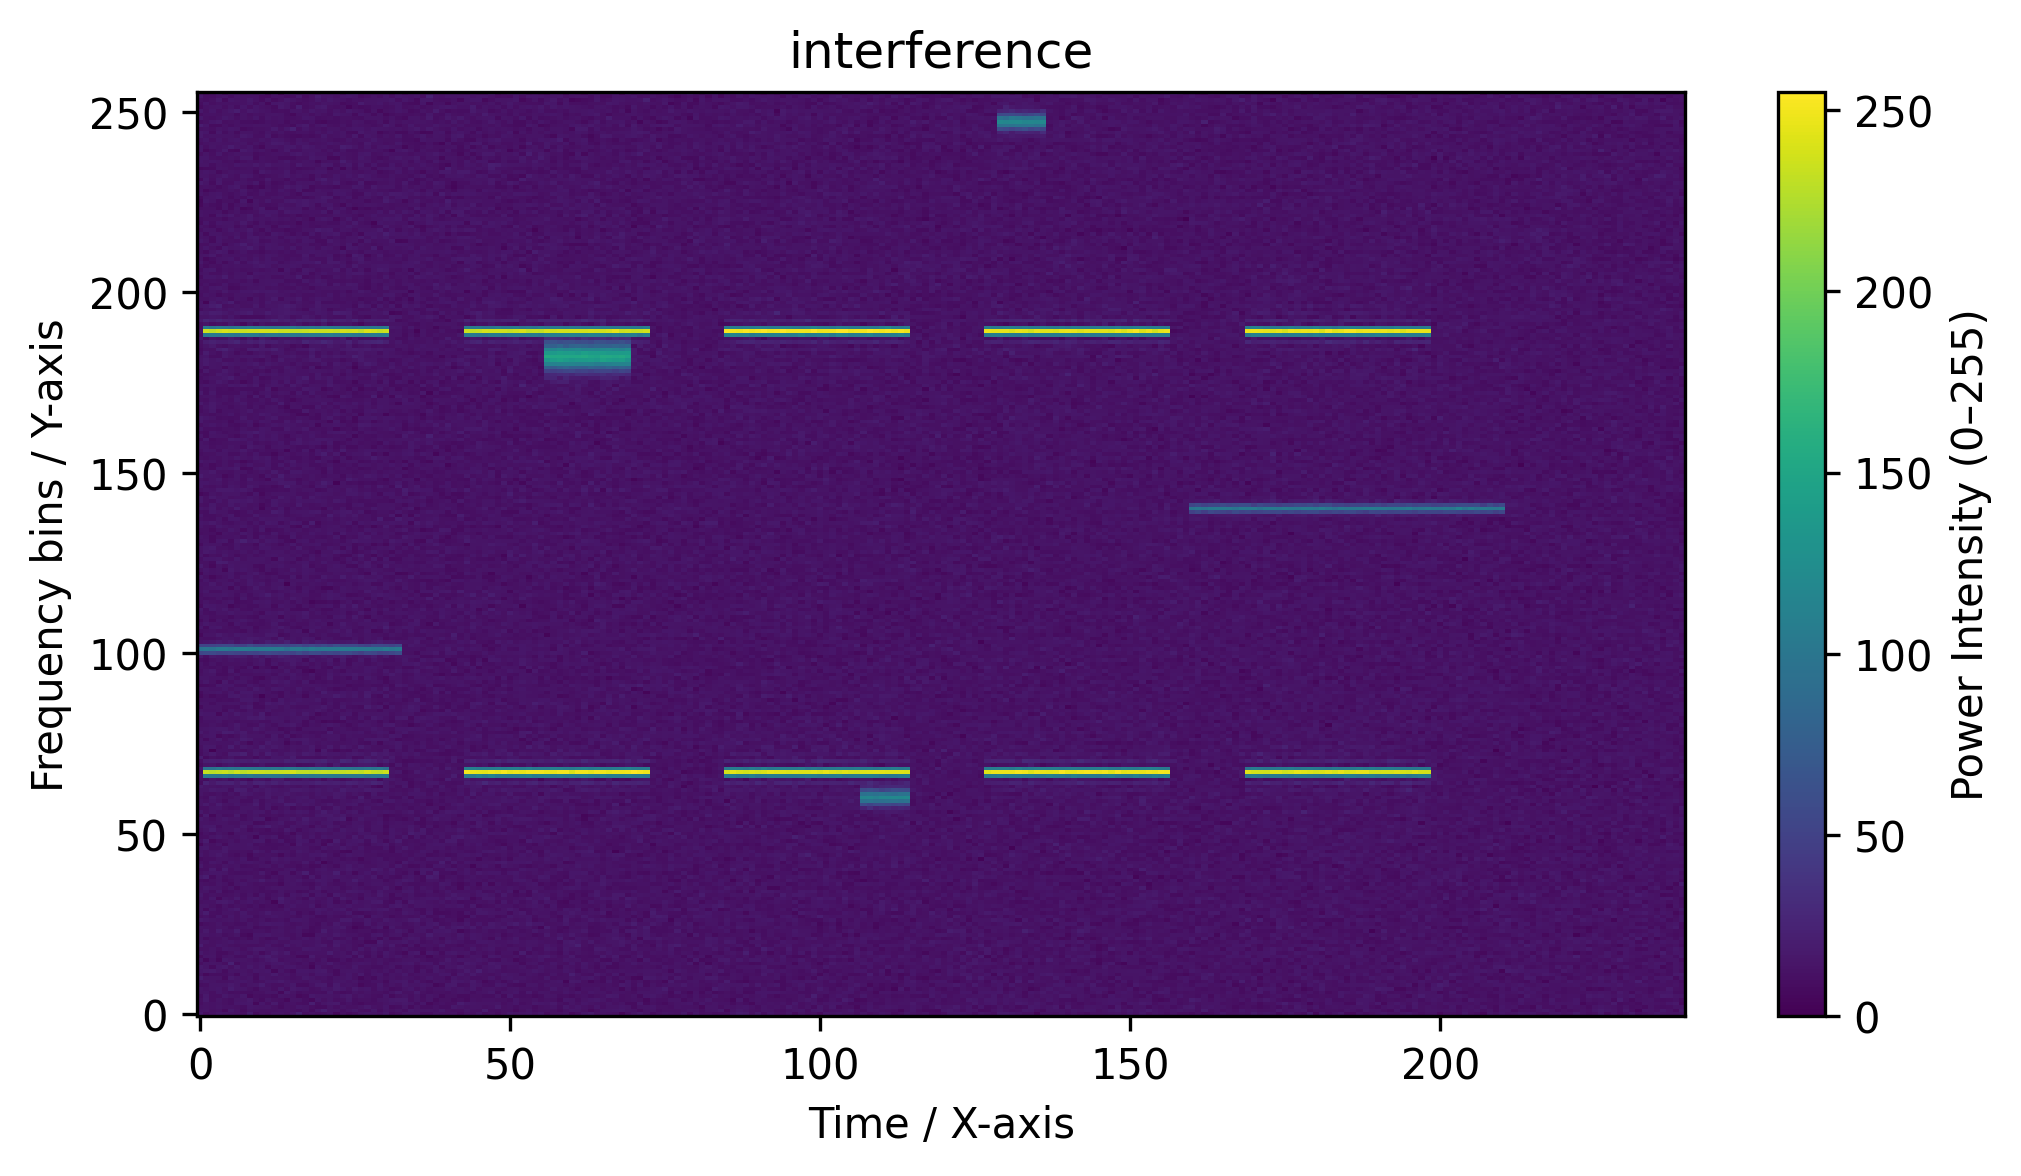
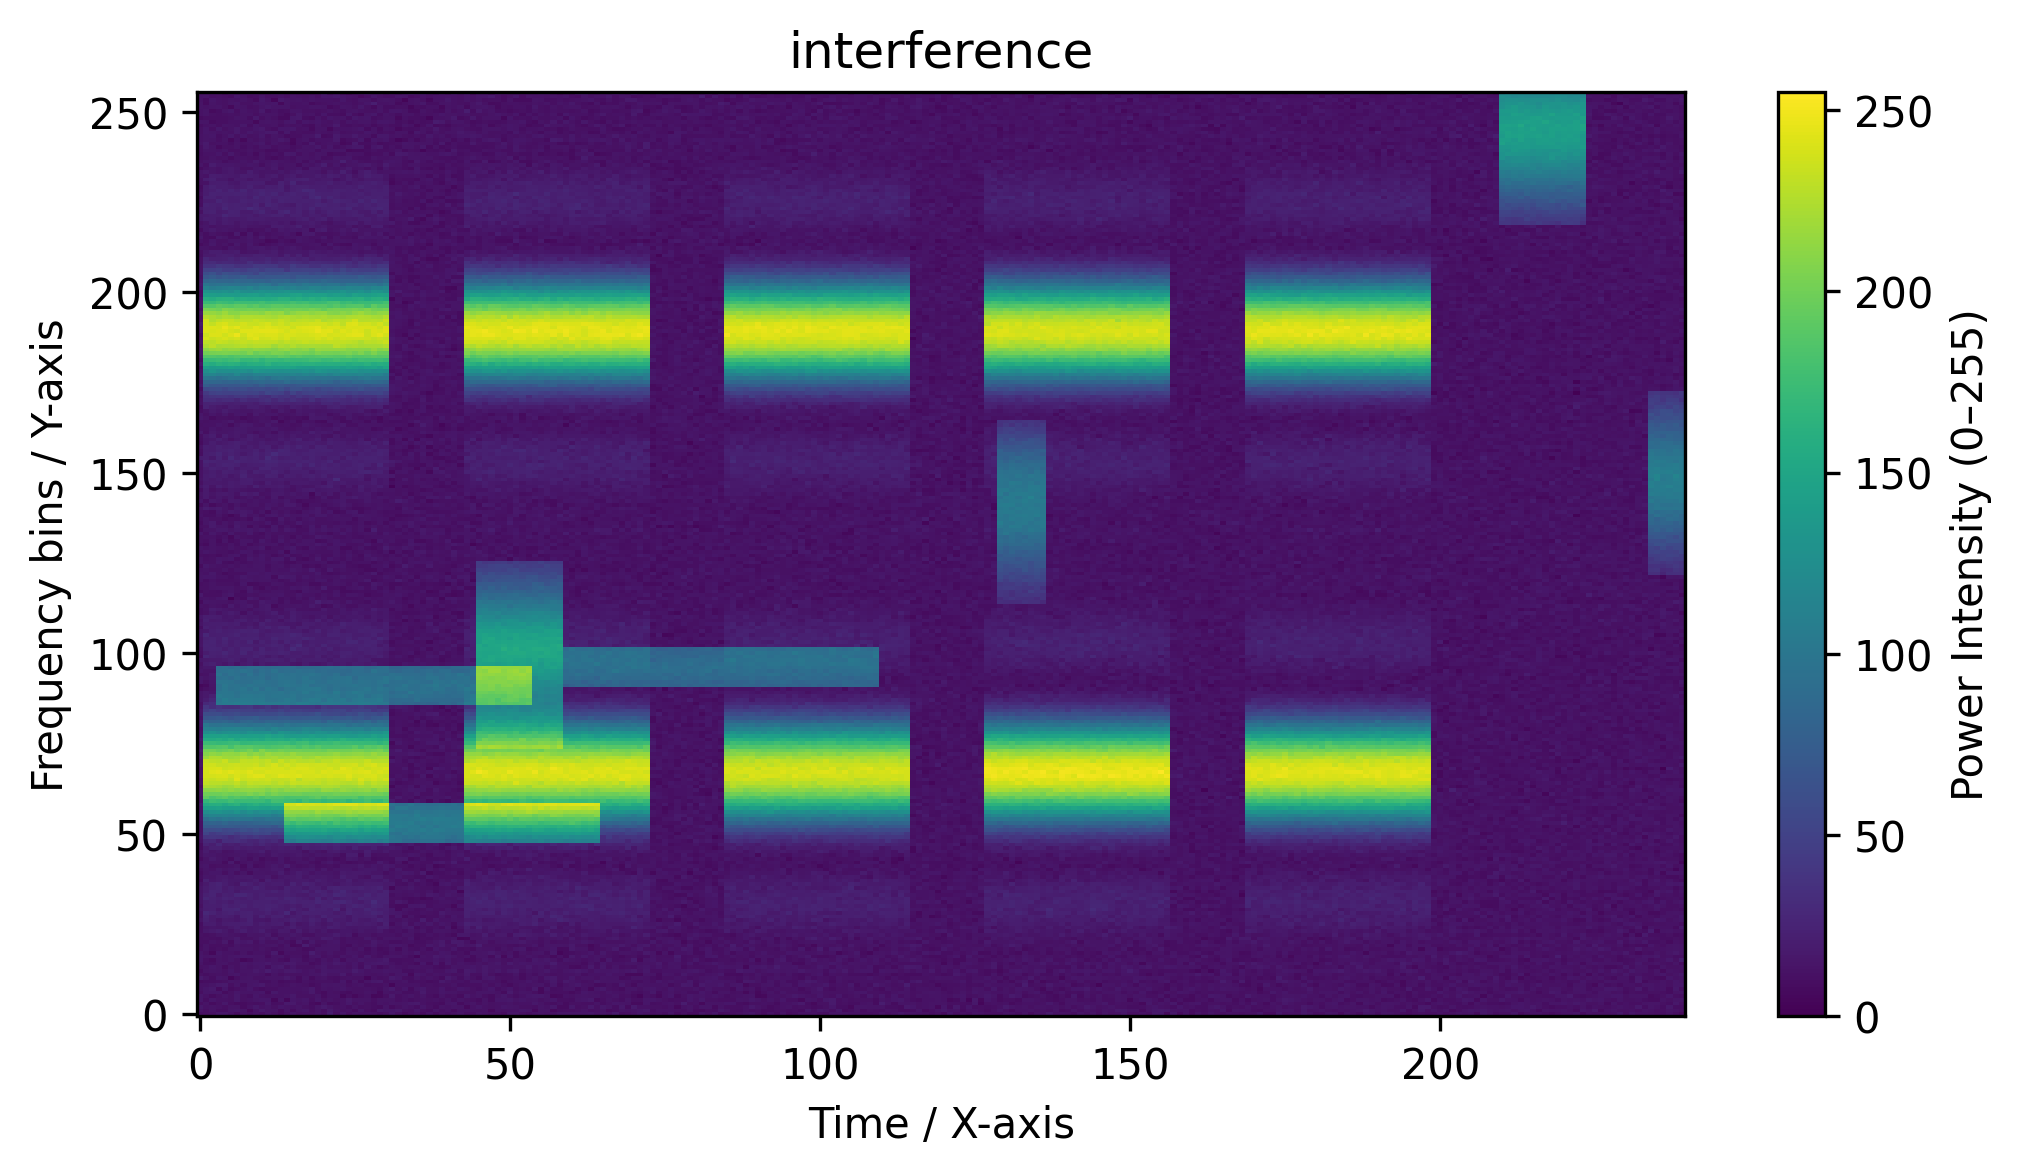
some values fixed

diff --git a/all_interferences.py b/all_interferences.py
@@ -26,7 +26,7 @@ def add_wifi_clients(noise_grid, grid, x, y, n_clients=1, width=30
         raise ValueError("Too many Wi-Fi clients for given Y range")
 
     bw_per_client = max(3, int(usable_height /n_clients))
-    print(f"client width: {bw_per_client}")
+    #print(f"client width: {bw_per_client}")
 
     # --- Generate clients ---
     for i in range(n_clients):
@@ -35,7 +35,7 @@ def add_wifi_clients(noise_grid, grid, x, y, n_clients=1, width=30
         fc = int((y_start + y_end) / 2)  # center frequency index
         #print(y_start, fc, y_end)
         yy = np.arange(ny)
-        sinc_profile = np.sinc((yy - fc) /10)**2
+        sinc_profile = np.sinc((yy - fc) /25)**2
         sinc_profile /= sinc_profile.max()
 
         # --- Horizontal duplication across x-axis ---
@@ -45,7 +45,7 @@ def add_wifi_clients(noise_grid, grid, x, y, n_clients=1, width=30
             amp = np.random.normal(amp_mean, np.sqrt(amp_var))
             for xi in range(x_start, x_end):
                 grid[y_start:y_end, xi] += amp * sinc_profile[y_start:y_end]
-                print(grid[y_start:y_end,xi])
+                #print(grid[y_start:y_end,xi])
             x_start += width + x_gap
 
         # --- Log the generated client ---      
@@ -57,7 +57,6 @@ def add_wifi_clients(noise_grid, grid, x, y, n_clients=1, width=30
             "horizontal_width" : width,
             "amplitude": float(amp),
             "duty_cycle": 1.0,
-            "noise_floor": float(np.mean(noise_grid)),
         })
 
     return grid
@@ -65,7 +64,7 @@ def add_wifi_clients(noise_grid, grid, x, y, n_clients=1, width=30
 
 # ==================== ZIGBEE ====================
 def add_zigbee_clients(noise_grid,grid, x, y, n_clients=5, width=8, amp_mean=80, amp_var=10,
-                       sigma_y=10, bursty=False, duty_cycle=0.0, positions_log=None):
+                       sigma_y=15, bursty=False, duty_cycle=0.0, positions_log=None):
     grid = grid.copy().astype(float)
     nx, ny = len(x), len(y)
 
@@ -95,7 +94,6 @@ def add_zigbee_clients(noise_grid,grid, x, y, n_clients=5, width=8, amp_mean=80,
             "horizontal_width": width,
             "amplitude": float(amp),
             "duty_cycle":duty_cycle if bursty else 1,
-            "noise_floor": np.mean(noise_grid),
         })
 
     return grid
@@ -103,7 +101,7 @@ def add_zigbee_clients(noise_grid,grid, x, y, n_clients=5, width=8, amp_mean=80,
 
 # ==================== CORDLESS PHONE ====================
 def add_cordless_phone_clients(noise_grid,grid, x, y, n_clients=2, width=15, gap=8,
-                               amp_mean=110, amp_var=20, sigma_y=10,
+                               amp_mean=110, amp_var=20, sigma_y=15,
                                bursty=False, duty_cycle=0.0, positions_log=None):
 
     grid = grid.copy().astype(float)
@@ -134,7 +132,6 @@ def add_cordless_phone_clients(noise_grid,grid, x, y, n_clients=2, width=15, gap
             "horizontal_width": width,
             "amplitude": float(amp),
             "duty_cycle": duty_cycle if bursty else 1,
-            "noise_floor": np.mean(noise_grid),
         })
 
     return grid
@@ -172,7 +169,6 @@ def add_bluetooth_clients(noise_grid,grid, x, y, n_clients=20, width=50, height_
             "horizontal_width": width,
             "amplitude": float(amp),
             "duty_cycle": duty_cycle ,
-            "noise_floor": np.mean(noise_grid),
         })
     return grid
 
@@ -201,7 +197,7 @@ def main():
     positions_log = []
 
     # --- Wi-Fi ---
-    print(len(y))
+    #print(len(y))
     n_wifi_clients = int(input("Enter number of Wi-Fi clients: "))
     wifi_grid = add_wifi_clients(noise_grid,noise_grid, x, y,
                                  n_clients=n_wifi_clients, width=30, x_gap=10,

diff --git a/meta-data.py b/meta-data.py
@@ -35,7 +35,7 @@ def plot_noise_grid(x, y, grid, title, save_path=None):
 
 def generate_interference_frame(x,y):
 
-    noise_grid = generate_gaussian_noise_grid(x, y, mean=30, variance=5)
+    noise_grid = generate_gaussian_noise_grid(x, y, mean=10, variance=5)
     grid = noise_grid.copy()
     positions_log = []
 
@@ -66,8 +66,7 @@ def generate_interference_frame(x,y):
             "bandwidth_px": entry.get("bandwidth_px", 1),
             "horizontal_width":entry.get("horizontal_width",None),
             "amplitude": entry.get("amplitude", None),
-            "duty_cycle": entry.get("duty_cycle", None),
-            "noise_floor": entry.get("noise_floor", None),    
+            "duty_cycle": entry.get("duty_cycle", None),       
         }
         events.append(event)
 
@@ -76,6 +75,7 @@ def generate_interference_frame(x,y):
         "channel": random.choice([1, 6, 11]),
         "band": "2.4GHz",
         "airtime_cost": round(random.uniform(0.01, 0.8), 3),
+        "noise_floor": np.mean(noise_grid),
         "events": events
     }
 
@@ -110,7 +110,7 @@ def main():
     x = np.arange(0, 240, 1)
     y = np.arange(0, 256, 1)
     image_path, frame_info, grid = generate_interference_frame(x,y)
-    print(grid)
+    #print(grid)
 
     image_out_path = f"results/interference.png"
     plot_noise_grid(x,y,grid,"interference",image_path)

diff --git a/decision-tree-1.py b/decision-tree-1.py
@@ -270,7 +270,7 @@ def detect_pulses_from_grid(grid, refs=None, energy_threshold=ENERGY_THRESH, B_d
                     t_union = max(act.t_end, t) - min(act.t_start, act.t_start)
                     TOR = t_overlap / float(t_union + 1e-12)
 
-                    if FOR > 0.5 and TOR > 0.5:
+                    if FOR > 0.6 and TOR > 0.6:
                         act.extend(t, l, kp, r, pvals)
                         matched = True
                         matched_active.add(idx)
@@ -351,7 +351,7 @@ def cross_correlation(sig_ref, sig_meas):
     return float(np.max(np.abs(corr)) / len(a))
 
 # ---------------- build reference signatures (isolated) ----------------
-def build_reference_signatures(x, y, n_per_type=40):
+def build_reference_signatures(x, y, n_per_type=20):
     """
     For each device type, generate n_per_type isolated frames using add_* functions,
     detect pulses and average their normalized spectral shapes to form reference signatures.
